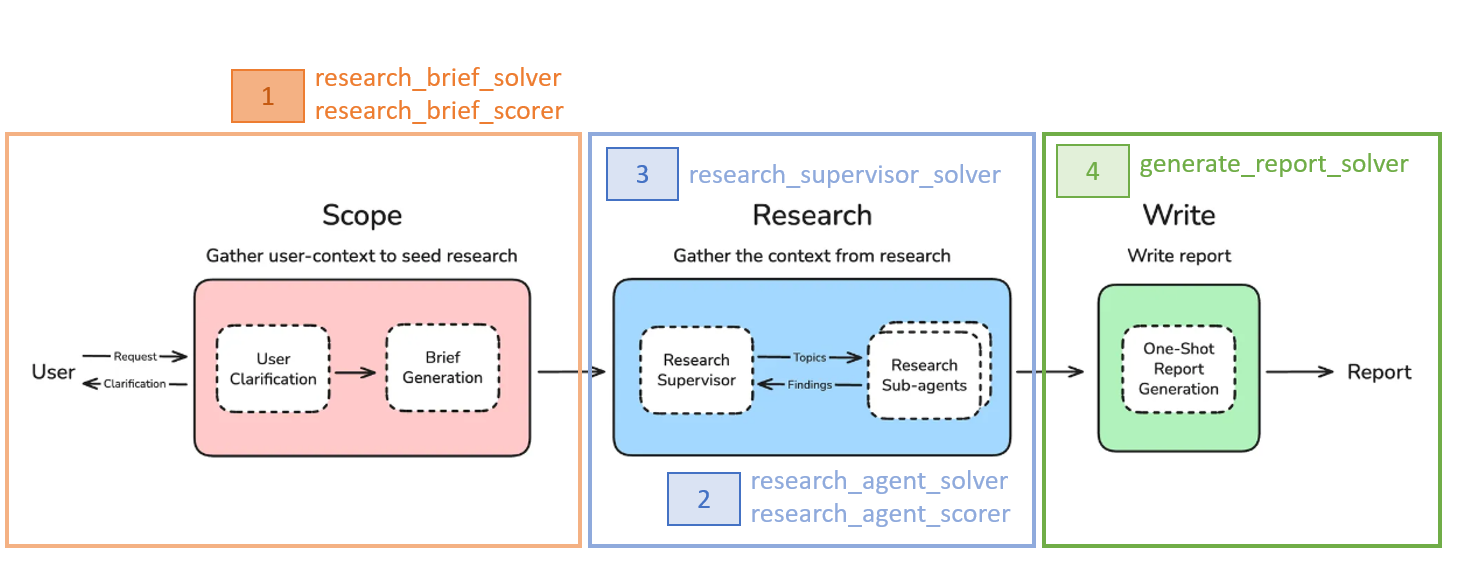
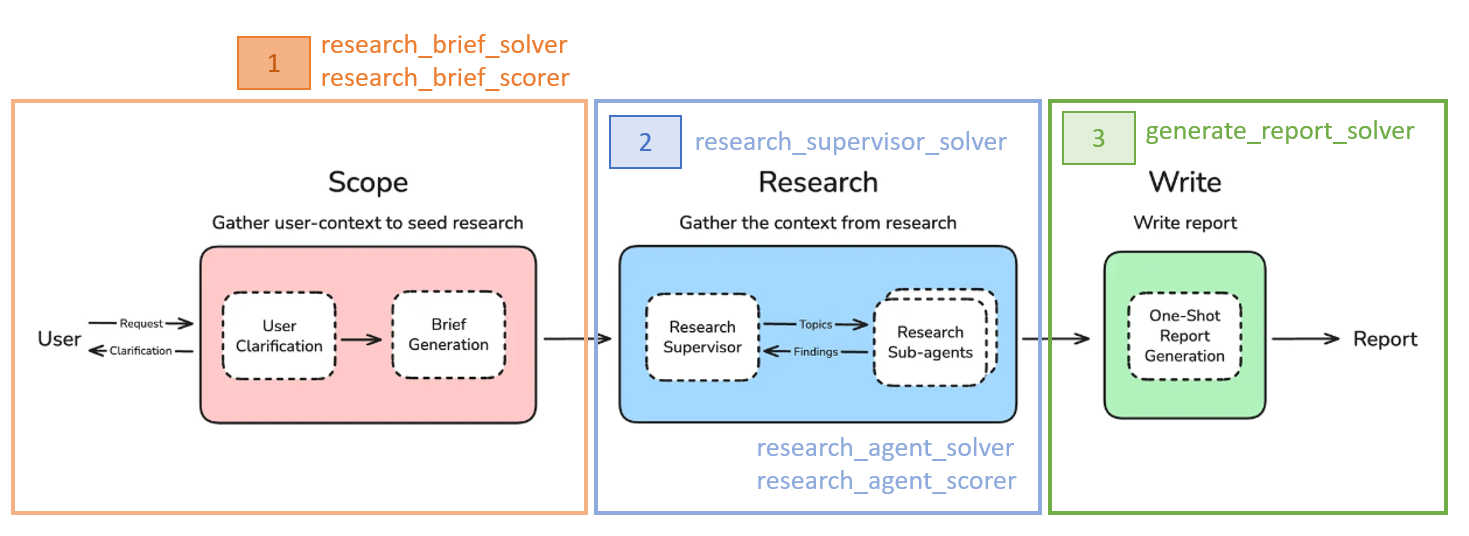
edited generate_report_task

diff --git a/tasks/generate_report_task.py b/tasks/generate_report_task.py
@@ -2,7 +2,7 @@ from inspect_ai import Task, task
 from inspect_ai.dataset import Sample
 from inspect_ai.solver import chain
 
-from solvers.pre_scope_solver import pre_scope_solver
+from solvers.research_brief_solver import research_brief_solver
 from solvers.research_supervisor_solver import research_supervisor_solver
 from solvers.generate_report_solver import generate_report_solver
 
@@ -22,7 +22,7 @@ def research_task():
         ],
         solver=chain(
             # optional if you already have research brief
-            pre_scope_solver(),
+            research_brief_solver(),
             research_supervisor_solver(),
             generate_report_solver(),
         ),

diff --git a/README.md b/README.md
@@ -47,7 +47,7 @@ This tells Inspect to use OpenRouter as provider and gpt-4.1-mini as the model.
 inspect eval task.py --model openrouter/openai/gpt-4.1-mini
 ```
 
-Agent implementation
+#### Agent implementation
 ```
 @agent
 def web_research_agent(*, max_results: int = 5) -> Agent:
@@ -72,7 +72,7 @@ def web_research_agent(*, max_results: int = 5) -> Agent:
             model = InspectBridgeChatOpenAI(
                 model="inspect",
                 api_key="dummy",
-                base_url="http://localhost:13131/v1",
+                base_url="http://localhost:13131/v1", # proxy server
                 include_response_headers=False,
             )
 
